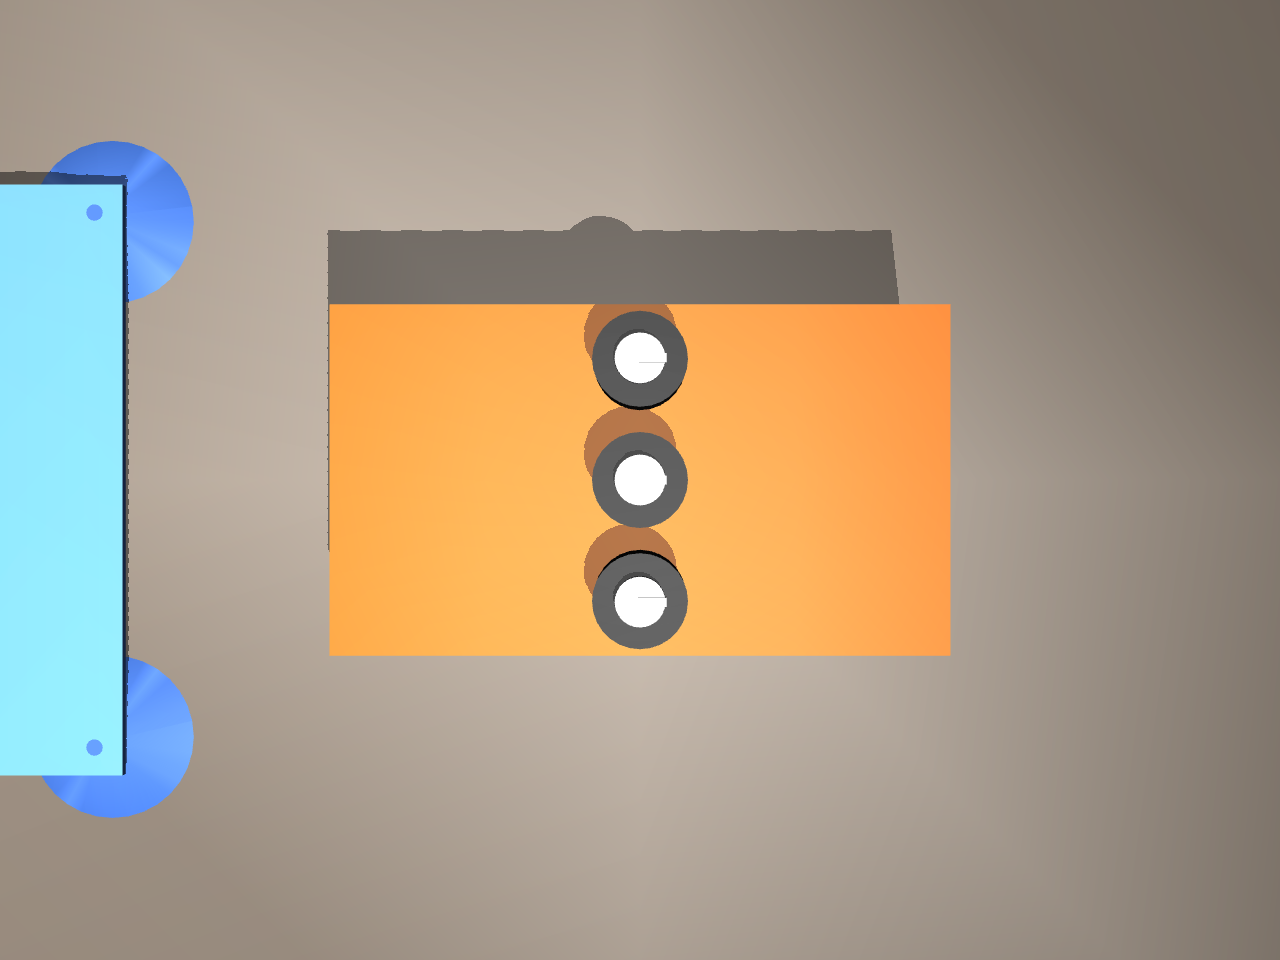
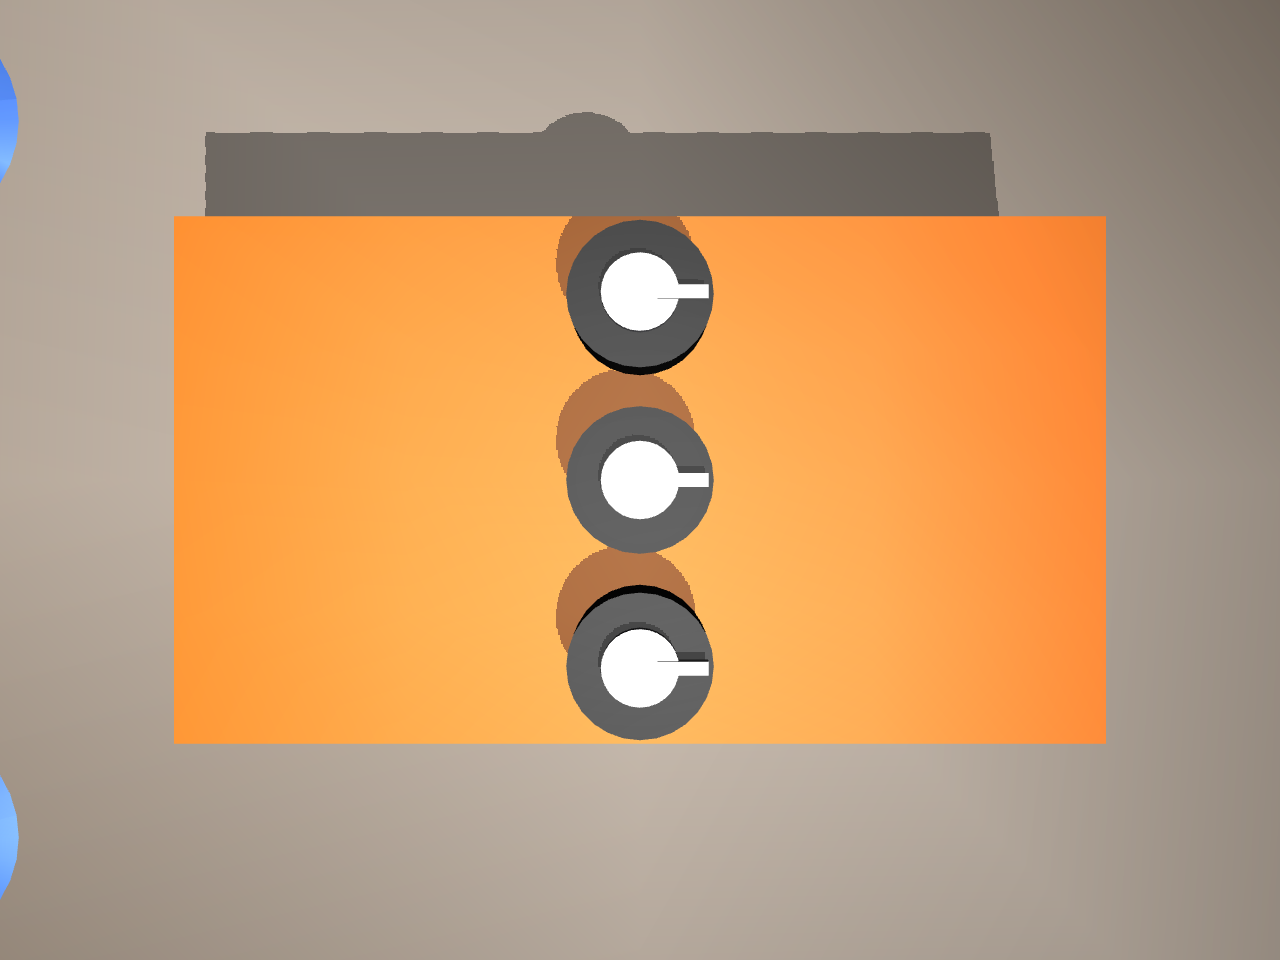
close the audit's remaining gaps: perception now runs on rendered pixels
An audit of the pipeline found several checks certifying geometry against
itself. Fixed, in order of how much bench time each would have cost:

The knob finder's "no false positives" was never asserted. The check counted
frames with two or more detections, so a false positive HELPED it pass. The
pedal has exactly three knobs, so anything past three is now a failure, and a
deliberately loosened shape filter is caught.

The verify stage read the knob's angle out of the physics state. read_pointer
now renders a frame and runs the real knob finder and the real pointer reader
over it, which is what the bench will do.

Making that work turned up two things. The sim pointer sat wholly inside the
cap while the real one is painted across the cap edge onto the skirt, which
is exactly where the reader searches, so nothing was ever found: sim geometry
quietly disagreeing with the hardware makes the perception look broken when
it is the model that is wrong. And the camera was framed far too wide. At
300 mm the pedal fills 9 percent of the frame and the finder returns nothing,
against the 32 to 52 percent of the bench photos it was tuned on. The
mounting requirement is a framing, not a distance.

The arm also blocks its own view: with the camera top-down, 0 knobs are found
with the arm 100 mm above the knob and all 3 with it retreated. turn_knob.py
already parks before reading angles, which is correct and now has a reason
written down.
[…]

diff --git a/scripts/strategy.py b/scripts/strategy.py
@@ -53,6 +53,7 @@ class Plan:
                                                    'ccw': efficiency}
         self.done_deg = 0.0
         self.bites = []
+        self.rejected = []
         self.why = ''
 
     # ---- state ---------------------------------------------------------
@@ -110,8 +111,34 @@ class Plan:
             return None
         return bite
 
-    def record(self, commanded, moved):
-        """Log what the pointer says actually happened, and learn from it."""
+    def implausible(self, commanded, moved):
+        """Is this reading too strange to believe?
+
+        A pointer reader can lock onto the wrong feature and report an angle
+        180 degrees out, which turns into a huge fictitious rotation. Measured
+        in simulation: a knob turned 0 degrees read as 359 while its
+        neighbours in the same frame agreed, so the reading was confidently
+        wrong rather than noisy. Believing it would poison the efficiency
+        estimate and send the next bite the wrong way.
+
+        The knob cannot outrun the wrist: it can move at most what was
+        commanded, plus slack for reading error. Anything past that is a
+        misread, not a measurement.
+        """
+        limit = abs(commanded) * 1.35 + 12.0
+        return abs(wrap(moved)) > limit
+
+    def record(self, commanded, moved, allow_implausible=False):
+        """Log what the pointer says actually happened, and learn from it.
+
+        A reading the knob could not physically have produced is discarded
+        rather than learned from, and reported so the caller can take another
+        frame instead of acting on a lie.
+        """
+        if not allow_implausible and self.implausible(commanded, moved):
+            self.rejected.append(dict(commanded=round(float(commanded), 1),
+                                      moved=round(wrap(moved), 1)))
+            return 'reading rejected as impossible, take another frame'
         moved = wrap(moved)
         self.done_deg += moved
         self._learn(commanded, moved)
@@ -296,5 +323,19 @@ if __name__ == '__main__':
         hist.append(round(b, 1))
     assert p.arrived, f'reversal case stalled: {p.why}'
     print(f'overshoot-and-return handled: bites {hist}')
+
+    # A misread that claims more rotation than the wrist commanded must be
+    # thrown away, not learned from.
+    p = Plan(30.0)
+    b = p.next_bite()                        # about 27 degrees of wrist
+    # measured in simulation: the reader flipped and a 20 degree turn was
+    # reported as 149.8, which no grip could have produced
+    out = p.record(b, 149.8)
+    assert 'rejected' in out, f'an impossible reading was accepted: {out}'
+    assert not p.bites and p.rejected, 'the bad reading was not recorded as bad'
+    assert p.done_deg == 0.0, 'a rejected reading still moved the total'
+    good = p.record(b, b * 0.4)              # a believable one still lands
+    assert p.bites and abs(p.done_deg - b * 0.4) < 1e-6
+    print('a physically impossible pointer reading is rejected, not believed')
 
     print('strategy self-checks passed')

diff --git a/sim/simcam.py b/sim/simcam.py
@@ -29,6 +29,14 @@ CV = HERE.parent / 'cv'
 
 WIDTH, HEIGHT = 1280, 960          # what the bench camera actually delivers
 
+# How far the camera sits above the pedal. 300 mm was the original guess and it
+# is too far: at 300 mm with this lens the pedal fills 9 percent of the frame
+# and the knob finder returns nothing at all, while the real bench photos it
+# was tuned on are 32 to 52 percent pedal. 200 mm gives about 30 percent and
+# 180 mm about 38. The mounting requirement is therefore not a distance but a
+# framing: the pedal has to fill roughly a third of the view.
+DISTANCE = 0.20
+
 
 def real_intrinsics(shape=(HEIGHT, WIDTH)):
     """(fx, fy, cx, cy) of the bench camera, scaled to a frame size."""
@@ -48,7 +56,7 @@ def fovy_for(fy, height):
 class SimCam:
     """A free camera posed over the scene, with the bench camera's optics."""
 
-    def __init__(self, width=WIDTH, height=HEIGHT, distance=0.30,
+    def __init__(self, width=WIDTH, height=HEIGHT, distance=0.20,
                  azimuth=90.0, elevation=-90.0, lookat=None, model=None):
         self.model = model or scene.MODEL
         self.width, self.height = width, height
@@ -133,9 +141,10 @@ if __name__ == '__main__':
 
     # the scale that matters: at 30 cm one pixel must be about half a mm,
     # which is what makes 2 mm lateral accuracy reachable at all
-    s = mm_per_px(cam, 0.30)
-    print(f'at 300 mm: {s:.3f} mm per pixel, so 2 mm is {2/s:.1f} px')
-    assert 0.15 < s < 0.30, f'{s:.3f} mm/px is not the expected scale'
+    s = mm_per_px(cam, cam.cam.distance)
+    print(f'at {cam.cam.distance*1000:.0f} mm: {s:.3f} mm per pixel, '
+          f'so 2 mm is {2/s:.1f} px')
+    assert 0.08 < s < 0.30, f'{s:.3f} mm/px is not the expected scale'
 
     # projection must agree with the optics it claims to have: a known
     # sideways offset at a known depth has to land a computable distance away

diff --git a/sim/cycle.py b/sim/cycle.py
@@ -119,9 +119,39 @@ class Cycle:
                 uv[1] + self.rng.normal(0, self.noise_px))
 
     def knob_angle(self, name):
-        """Pointer angle in degrees, read from the tab's actual orientation."""
+        """Pointer angle in degrees, from the physics state.
+
+        Ground truth, useful for asking whether the CONTROL logic works. It is
+        not verification: the bench has no such number, and a 'verify' stage
+        built on it certifies geometry against itself. Use read_pointer() for
+        the version that has to survive a camera.
+        """
         q = self.data.qpos[self.model.joint(f'{name}_turn').qposadr[0]]
         return float(np.degrees(q) % 360.0)
+
+    def read_pointer(self, name):
+        """Pointer angle by RENDERING the scene and reading the pixels.
+
+        This is what the bench will do. It runs the real knob finder and the
+        real pointer reader over a rendered frame, so the verification path is
+        exercised rather than assumed. Returns None when the frame cannot be
+        read, which is itself the honest answer.
+        """
+        import sys as _sys, pathlib as _p
+        _sys.path.insert(0, str(_p.Path(__file__).parent.parent / 'cv'))
+        import knobs2, pointer
+        frame = self.cam.render(self.data)
+        uv = self.cam.project(self.data.geom(f'{name}_cap').xpos)
+        if uv is None:
+            return None
+        found = knobs2.find(frame)
+        if not found:
+            return None
+        # pick the detection nearest where this knob should appear
+        k = min(found, key=lambda d: (d['cx'] - uv[0]) ** 2 + (d['cy'] - uv[1]) ** 2)
+        if np.hypot(k['cx'] - uv[0], k['cy'] - uv[1]) > 3 * k['r_px']:
+            return None
+        return pointer.angle(frame, k)
 
     def turn_knob(self, name, deg):
         """Roll the wrist by deg. The knob follows only partly.

diff --git a/sim/scene.py b/sim/scene.py
@@ -147,10 +147,18 @@ def build():
         k.add_geom(name=f'{name}_cap', type=mujoco.mjtGeom.mjGEOM_CYLINDER,
                    size=[PEDAL['cap_r'], 0.001],
                    pos=[0, 0, PEDAL['knob_h'] + 0.001], rgba=[.8, .8, .82, 1])
-        # the white pointer tab, offset from centre so its angle is readable
+        # The white pointer, painted across the cap edge and onto the SKIRT,
+        # which is where the real one is. It used to sit wholly inside the cap,
+        # and the reader searches outward from the cap edge precisely because
+        # the real pointer ends on the dark skirt, so nothing was ever found.
+        # Sim geometry that quietly disagrees with the hardware makes the
+        # perception look broken when it is the model that is wrong.
+        _tab_in, _tab_out = PEDAL['cap_r'] * 0.45, PEDAL['knob_r'] * 0.92
         k.add_geom(name=f'{name}_tab', type=mujoco.mjtGeom.mjGEOM_BOX,
-                   size=[PEDAL['cap_r'] * 0.55, 0.0009, 0.0011],
-                   pos=[PEDAL['cap_r'] * 0.5, 0, PEDAL['knob_h'] + 0.0015],
+                   size=[(_tab_out - _tab_in) / 2, PEDAL['cap_r'] * 0.18,
+                         0.0011],
+                   pos=[(_tab_out + _tab_in) / 2, 0,
+                        PEDAL['knob_h'] + 0.0012],
                    rgba=[1, 1, 1, 1])
     w.add_light(pos=[0.3, -0.3, 0.8], dir=[-0.3, 0.3, -0.8])
 

diff --git a/cv/knobs2.py b/cv/knobs2.py
@@ -137,14 +137,22 @@ if __name__ == '__main__':
         tests = sorted(n for n, v in m.items()
                        if v['orientation'] == 'topdown' and v['knobs'] >= 2
                        and not v['overlay'])
-        hits = fails = 0
+        hits = fails = extra = 0
         for n in tests:
             ks = find(cv2.imread(str(docs / n)))
             print(f'  {n[:22]}: {len(ks)} knobs {[k["conf"] for k in ks]}')
             hits += len(ks) >= 2
             fails += len(ks) == 0
-        print(f'{hits}/{len(tests)} frames with 2+ knobs, {fails} found nothing')
+            # The pedal has exactly three knobs. Anything past three is a
+            # false positive, and counting only "frames with 2 or more" made
+            # false positives HELP the check pass, which is the opposite of
+            # what it claimed to be testing.
+            extra += max(0, len(ks) - 3)
+        print(f'{hits}/{len(tests)} frames with 2+ knobs, {fails} found '
+              f'nothing, {extra} detections beyond the three that exist')
         assert hits >= 6, f'only {hits} frames reached 2 knobs'
+        assert extra == 0, (f'{extra} false positives: a frame cannot contain '
+                            f'more than the three knobs on the pedal')
     else:
         print('bench photos not present, synthetic check only')
 
